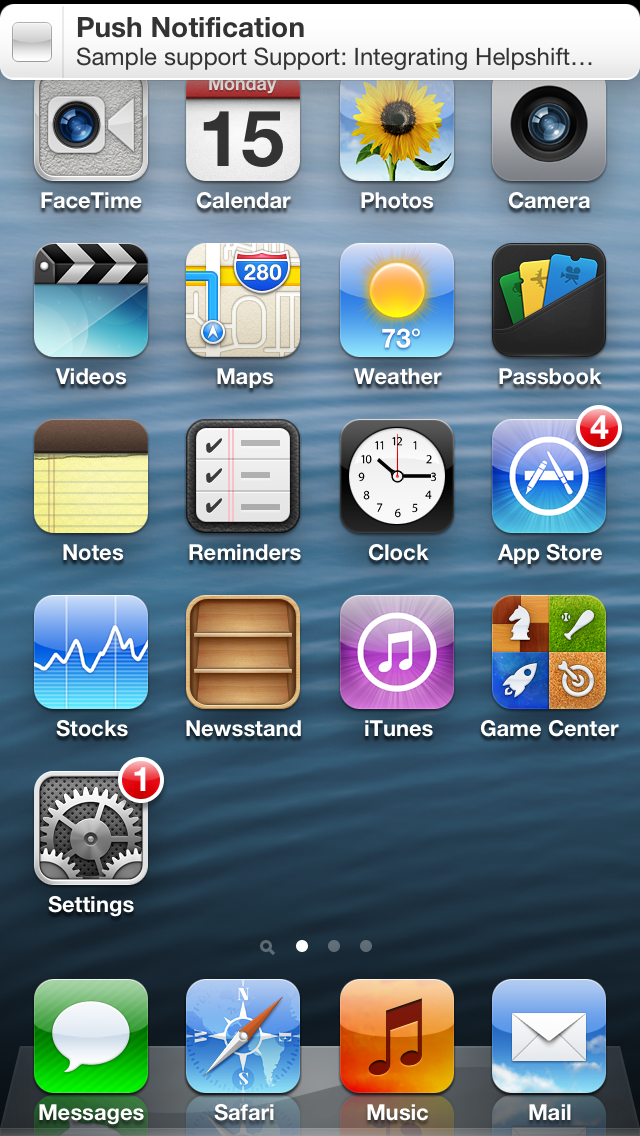
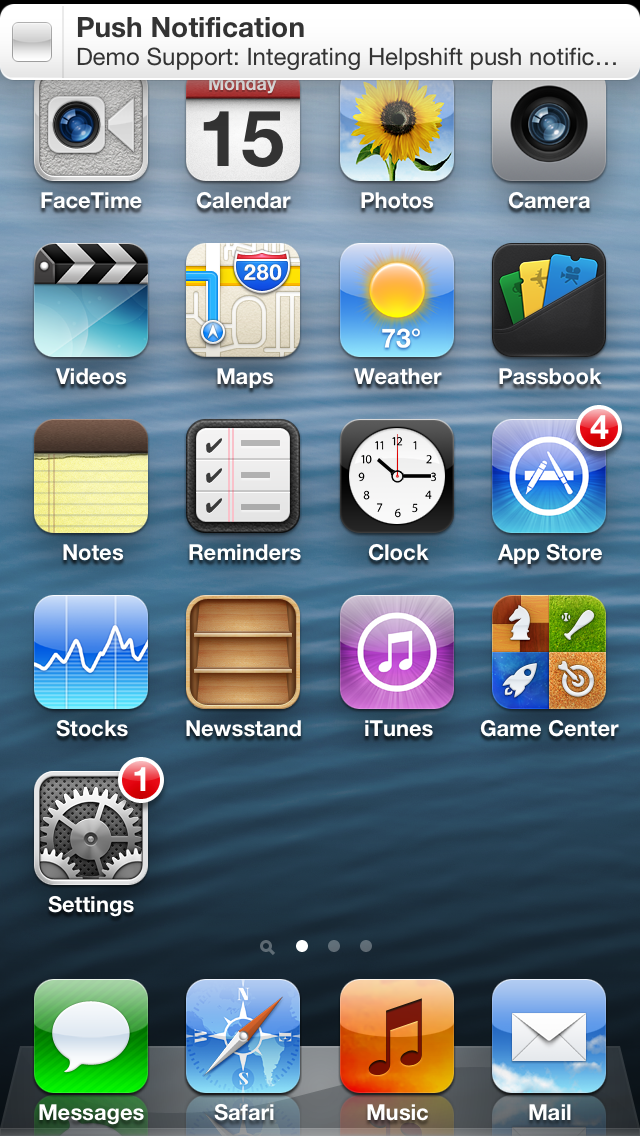
updated screenshot

Changed region(s): [[0.3438, 0.0308, 0.9375, 0.0616], [0.125, 0.0308, 0.3125, 0.0616]]

diff --git a/Push Notification/README.md b/Push Notification/README.md
@@ -21,4 +21,4 @@ Readme for Push Notification iOS App
    Helpshift push notification service, for more information [refer doc](http://www.helpshift.com/docs/howto/ios/v2.x/#hs-push-notif)
 
 
-![Push Notification screenshot](/Screenshot.png)
+![Push Notification screenshot](/Screenshot.png)		![Push Notification screenshot](/Screenshot2.png)
